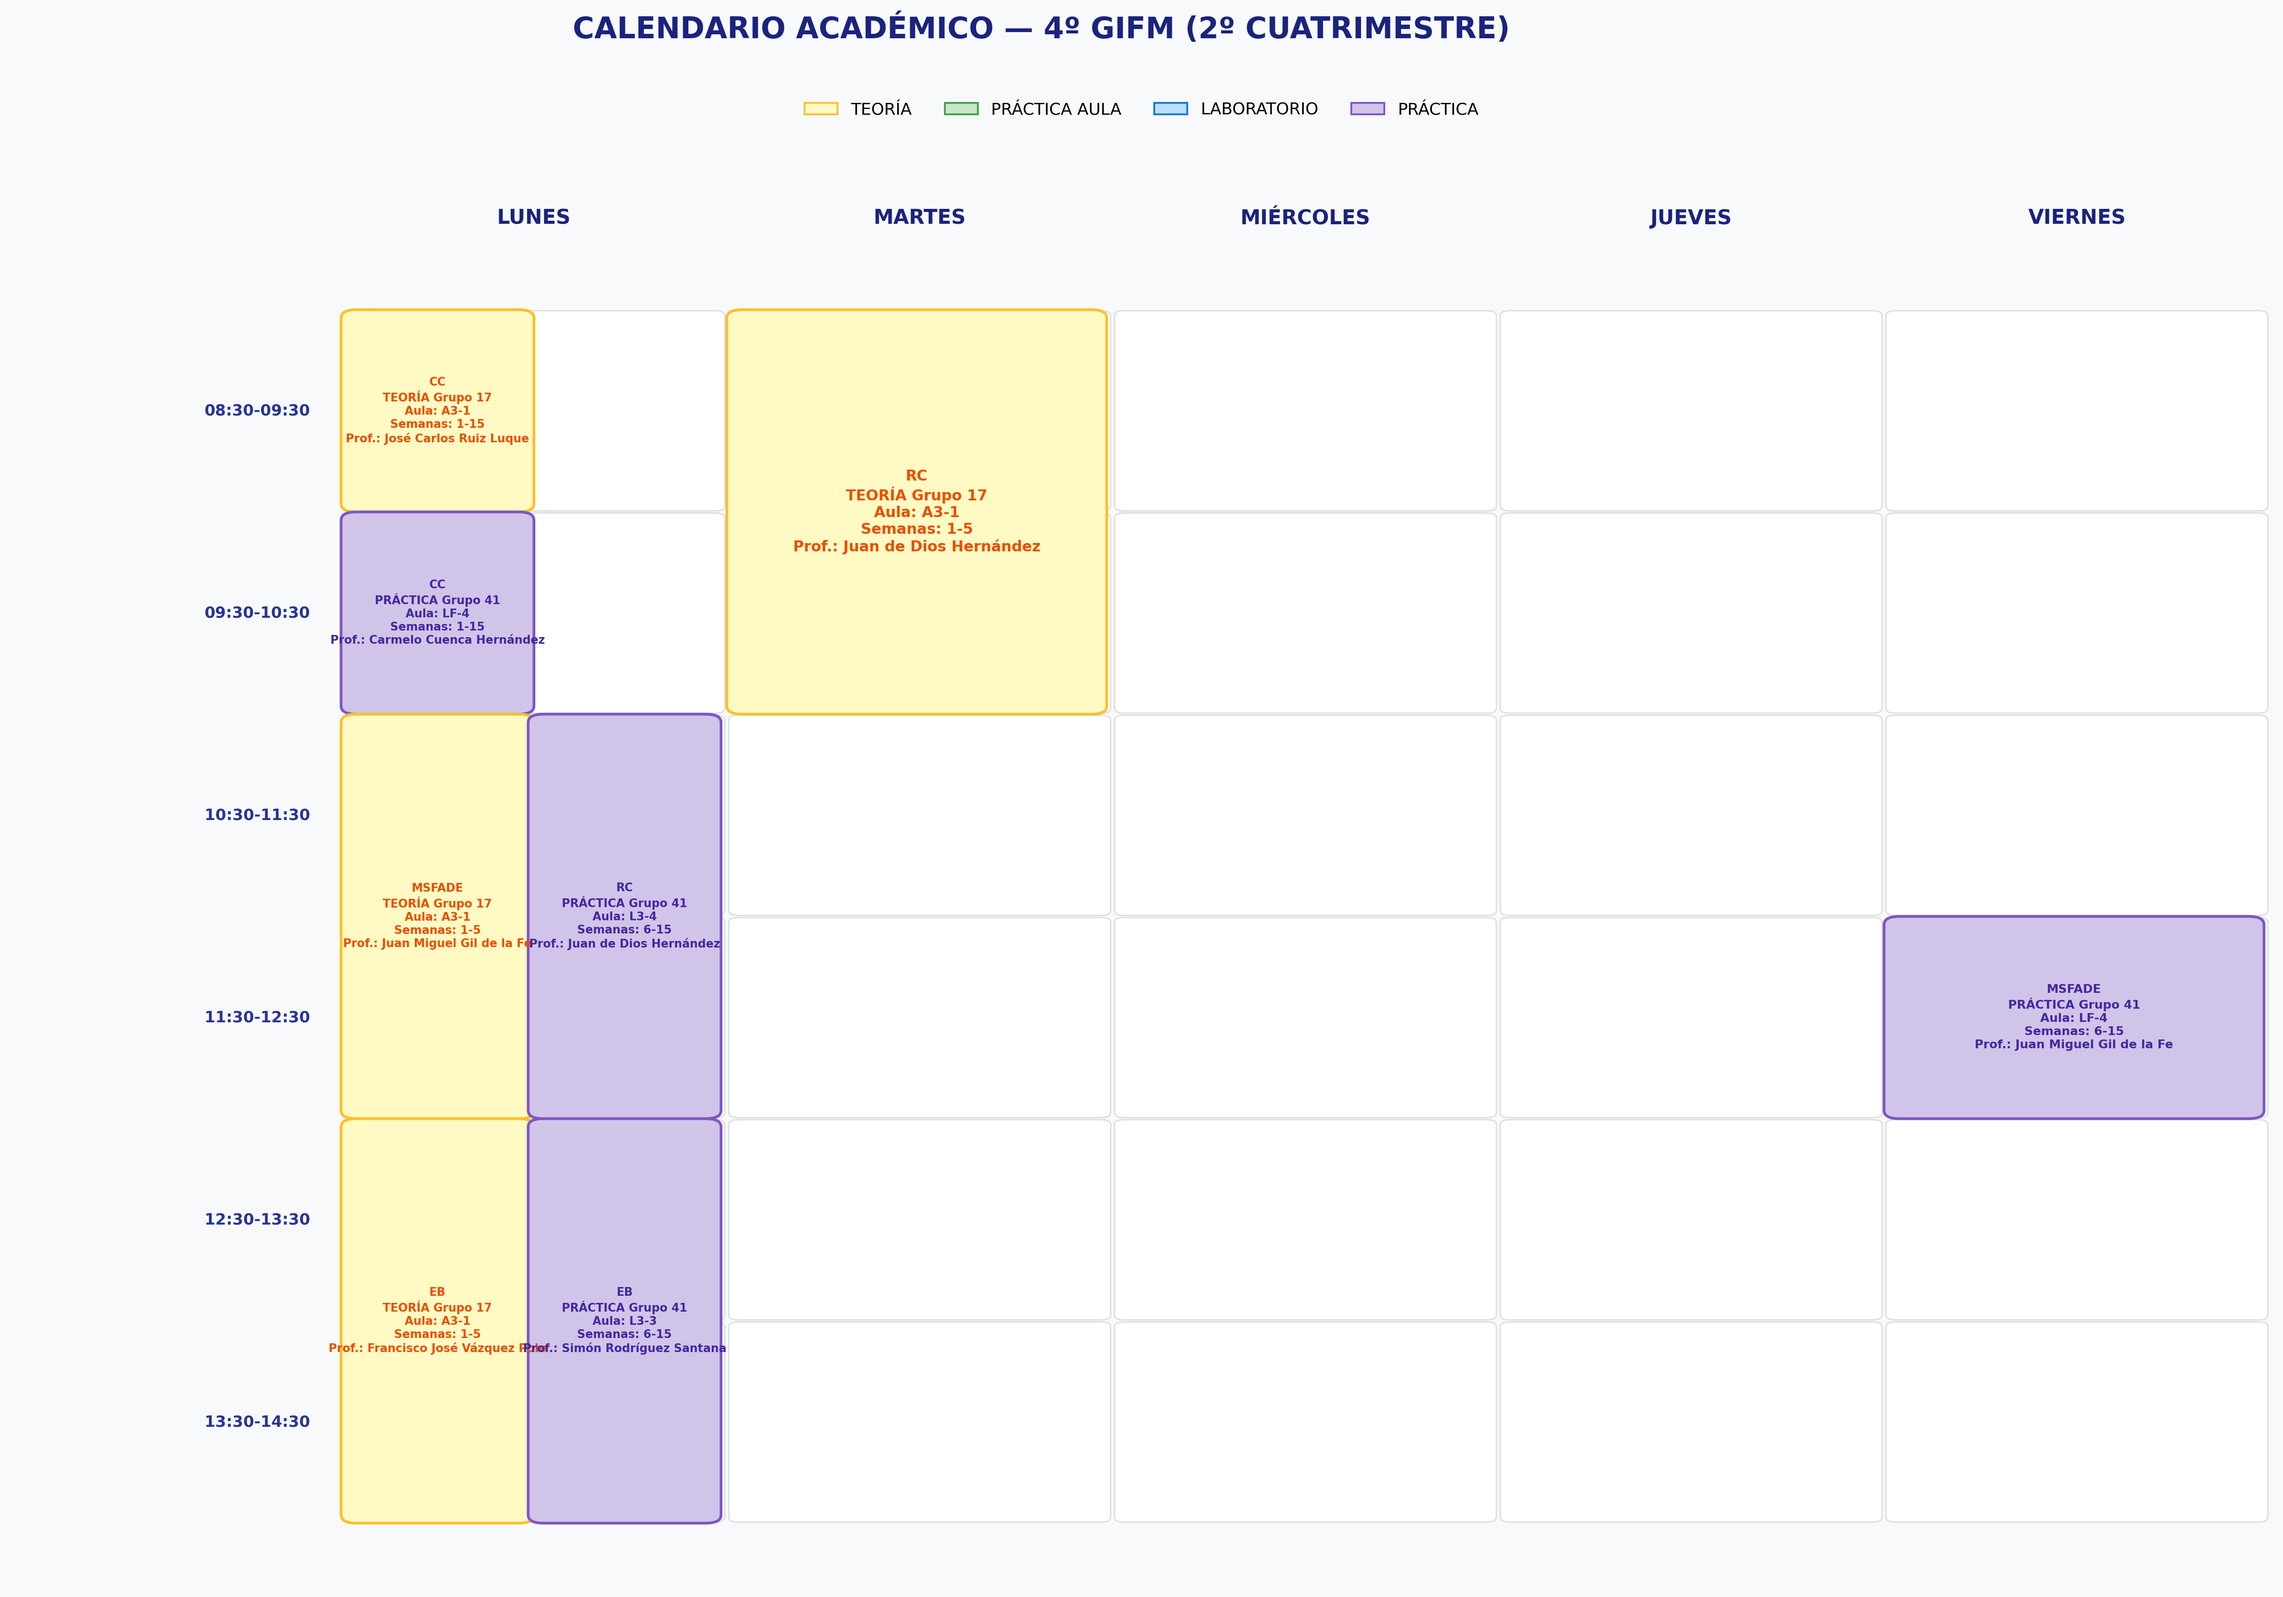
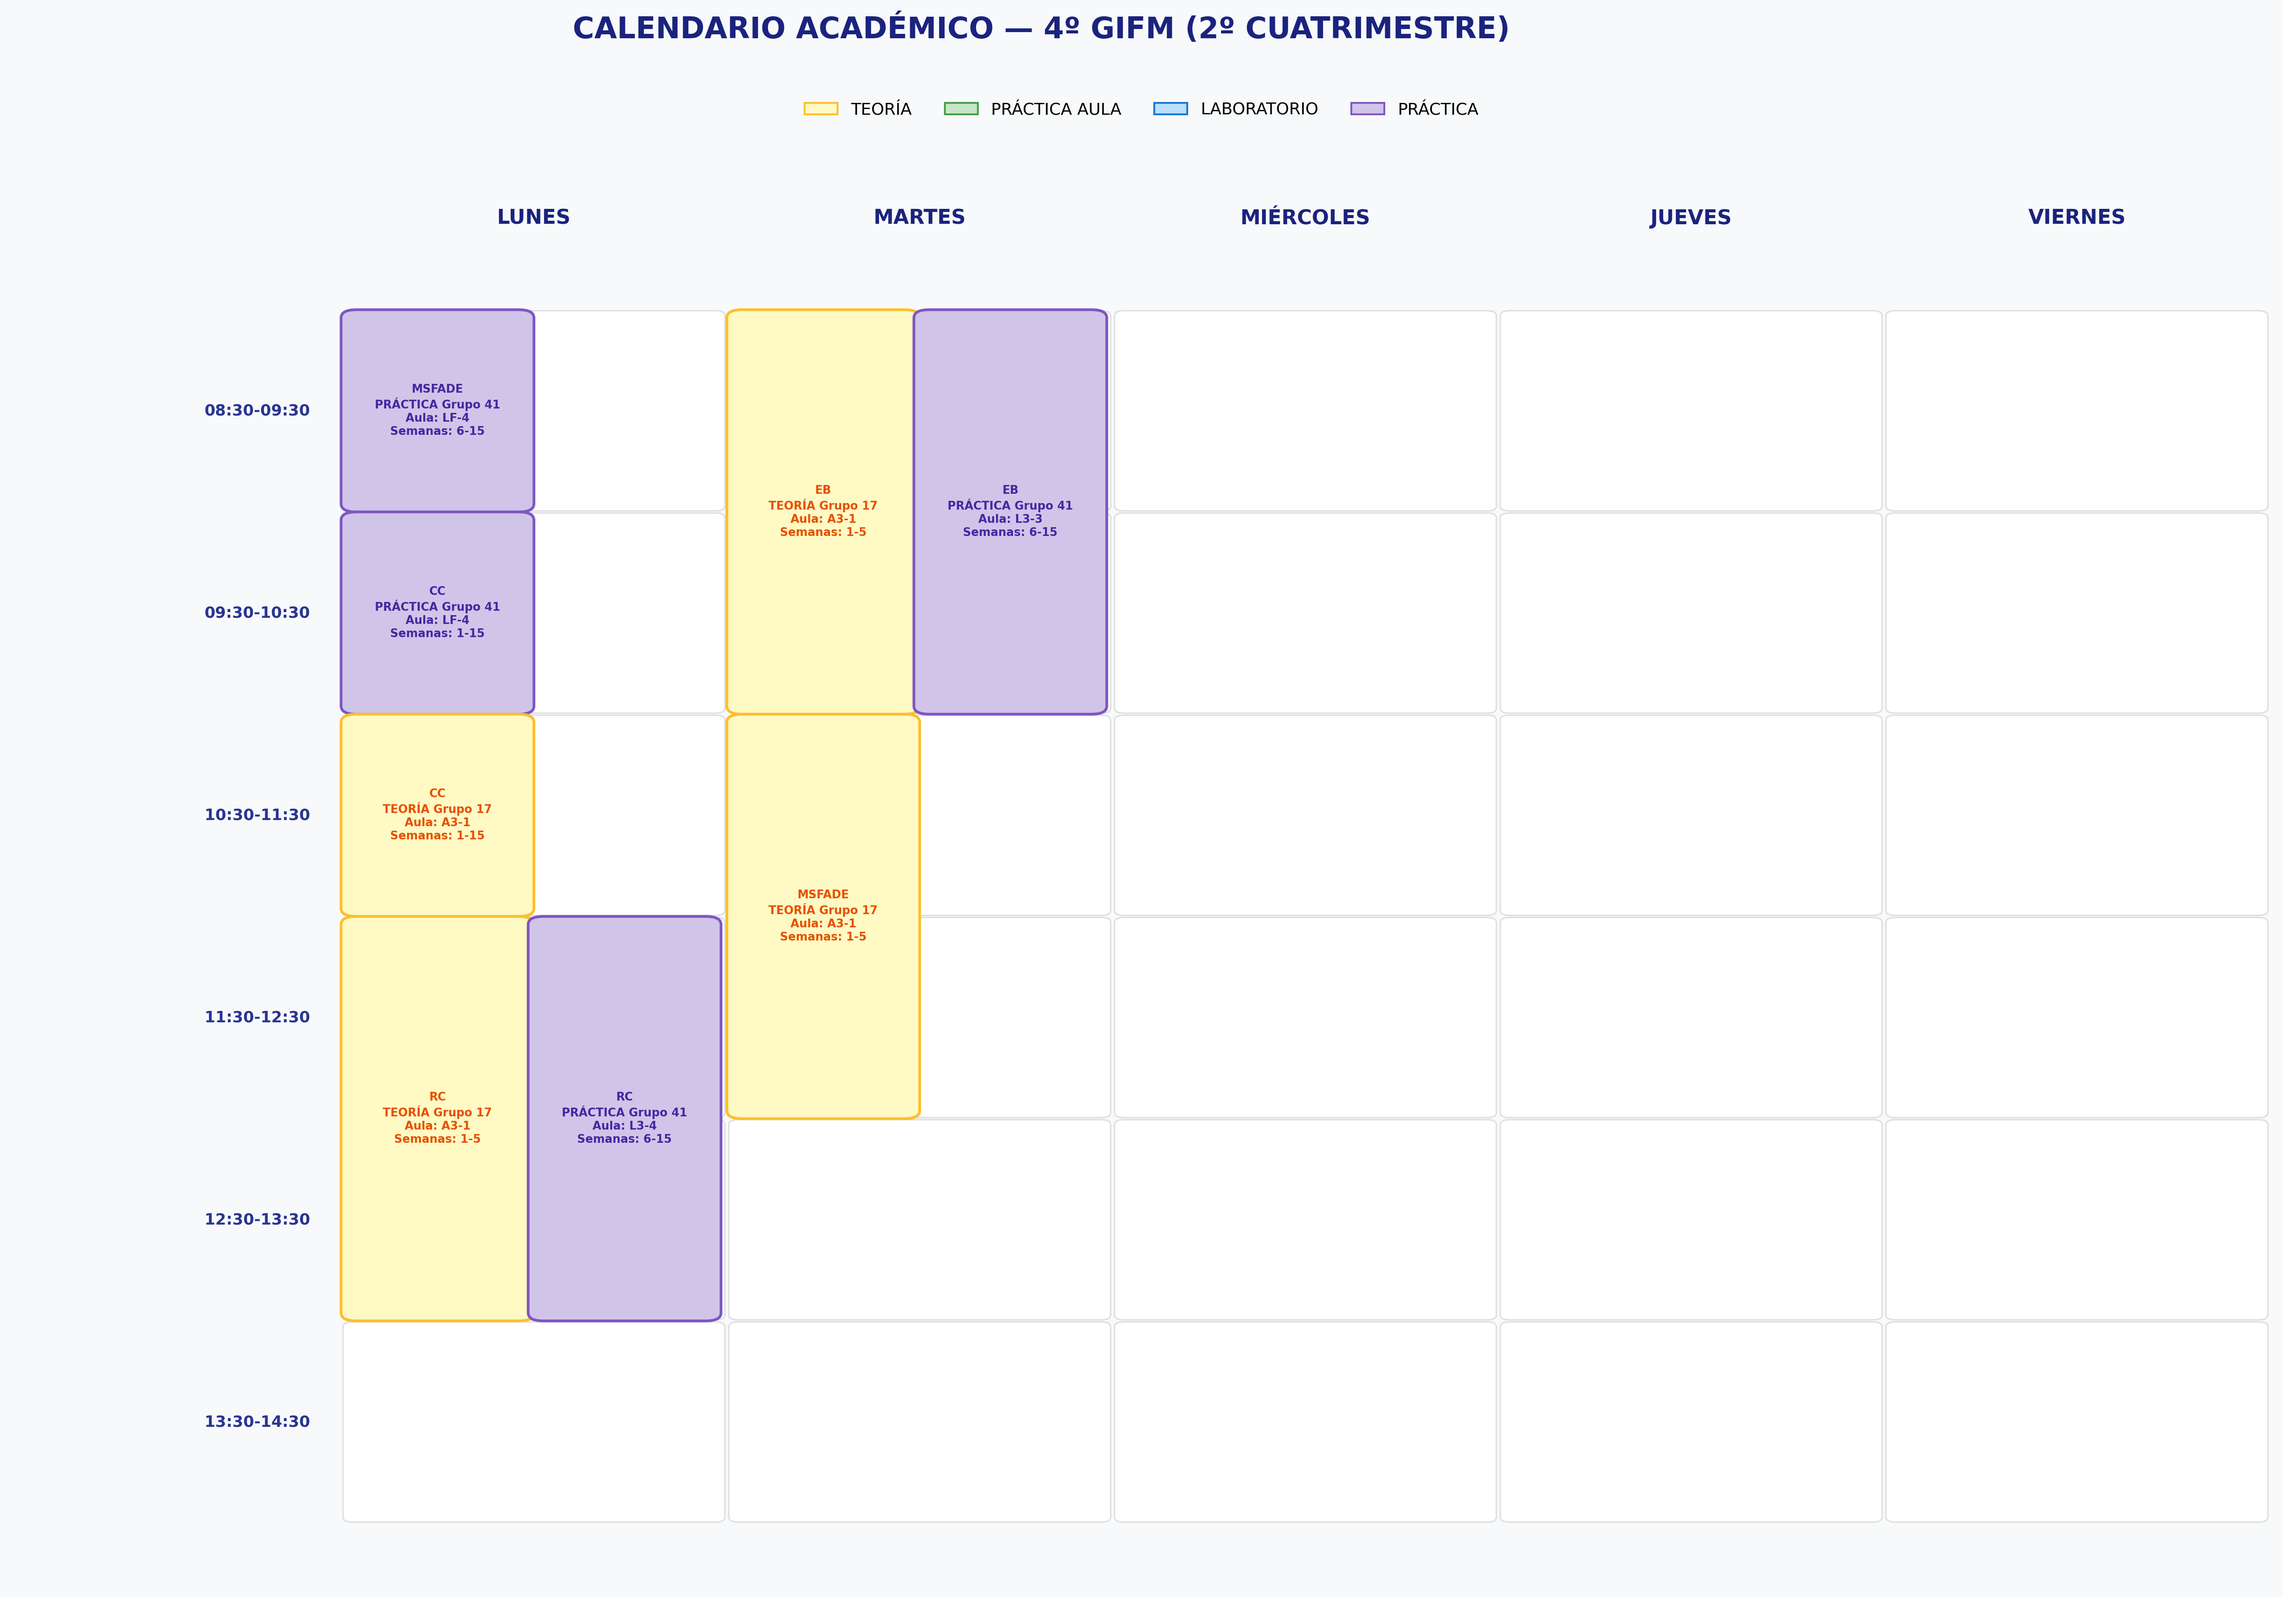
Añadir imagen del horario generado

diff --git a/src/visualizador.py b/src/visualizador.py
@@ -647,7 +647,7 @@ def exportar_horario_png(
 
         aula = sesion["aula"]
 
-        profesor = sesion["profesor"]
+        
 
         # Información de la tarjeta.
         lineas = [
@@ -657,10 +657,6 @@ def exportar_horario_png(
             sesion["semanas"]
         ]
 
-        if profesor:
-            lineas.append(
-                f"Prof.: {profesor}"
-            )
 
         texto = "\n".join(lineas)
 
